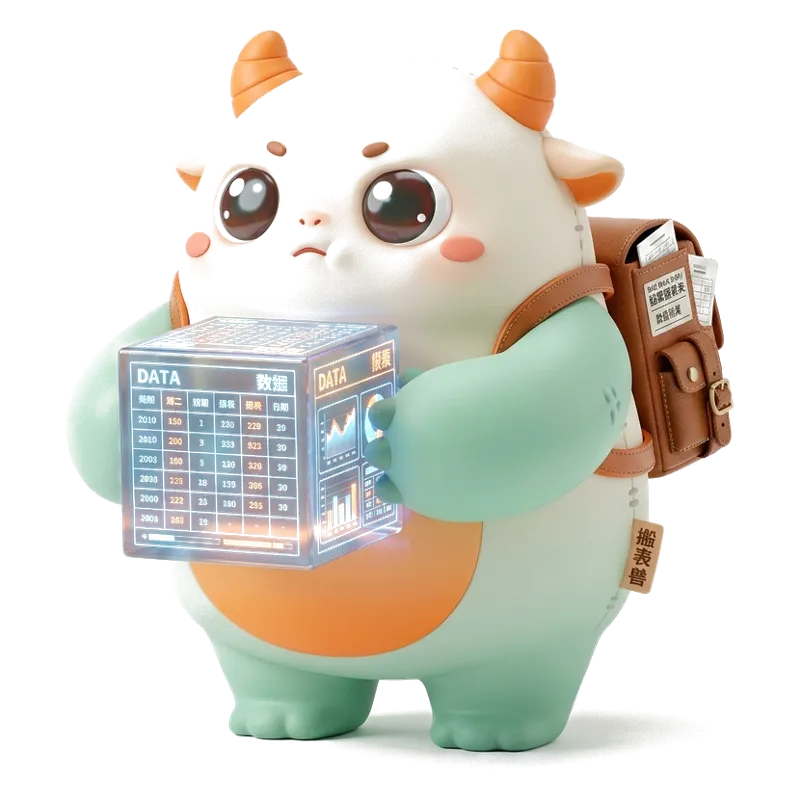
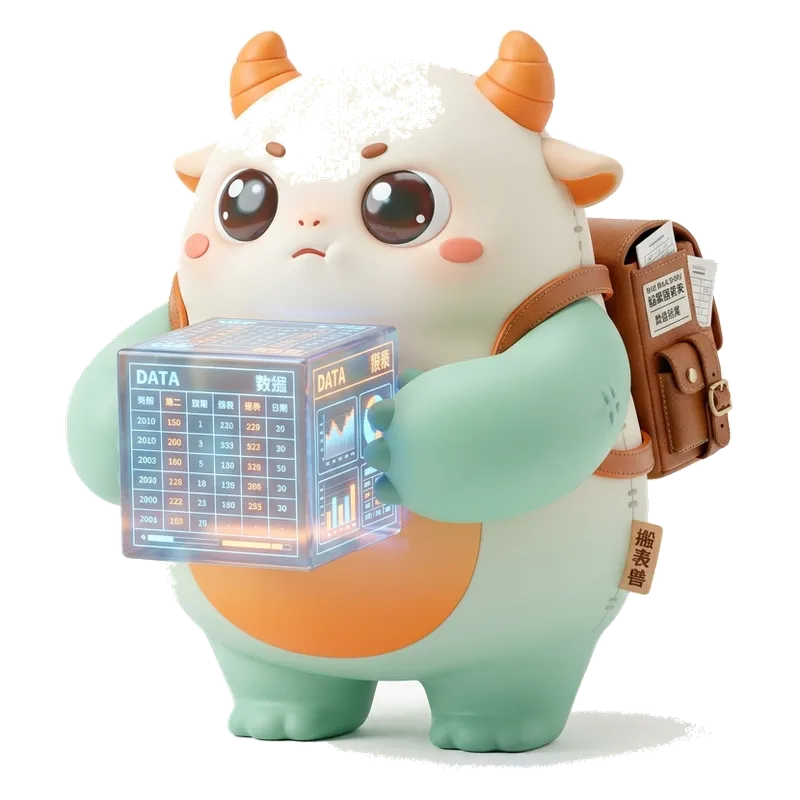
style: 修复角色WebP素材Alpha穿孔并增加不透底实体展示舱与展台

diff --git a/scripts/render_report.py b/scripts/render_report.py
@@ -148,9 +148,22 @@ a { color: var(--c-black); text-decoration: underline; }
   padding: 8px 14px; background: var(--c-black); color: var(--c-yellow);
   font: 700 13px/1.4 var(--font-mono);
 }
-.character-stage { position: relative; width: 100%; display: flex; flex-direction: column; align-items: center; }
-.character-figure { width: min(460px, 100%); height: auto; display: block; }
-.character-plinth { width: 62%; height: 26px; margin-top: -18px; background: var(--c-black); border-radius: 50%; }
+.character-stage {
+  position: relative; width: 100%; margin: 14px 0; padding: 22px 16px 18px;
+  background: var(--c-white); border: 3.5px solid var(--c-black);
+  border-radius: 16px; box-shadow: 6px 6px 0 var(--c-black);
+  display: flex; flex-direction: column; align-items: center; justify-content: center;
+  overflow: hidden;
+}
+.character-figure {
+  position: relative; z-index: 2; width: min(380px, 100%); height: auto; display: block;
+  filter: drop-shadow(0 10px 18px rgba(0,0,0,.15));
+}
+.character-plinth {
+  position: relative; z-index: 1; width: 68%; height: 22px; margin-top: -16px;
+  background: radial-gradient(ellipse at center, #2b2b2b 0%, var(--c-black) 100%);
+  border-radius: 50%; box-shadow: 0 4px 8px rgba(0,0,0,.35);
+}
 .stage-nameplate {
   align-self: stretch; margin-top: 18px; padding: 14px 18px; background: var(--c-white);
   border: 3px solid var(--c-black); font-size: 14px;
@@ -244,7 +257,9 @@ html.share-only .download-button { display: none; }
   .level-chip { font-size: 28px; }
   .character-title { font-size: 26px; }
   .snarky-banner { font-size: 19px; }
-  .character-figure { width: min(240px, 100%); }
+  .character-stage { padding: 14px 10px 12px; margin: 8px 0; border-radius: 12px; box-shadow: 4px 4px 0 var(--c-black); }
+  .character-figure { width: min(220px, 100%); }
+  .character-plinth { width: 64%; height: 16px; margin-top: -12px; }
   h2 { font-size: 22px; }
   details.task summary { align-items: flex-start; flex-direction: column; }
   .task-columns { grid-template-columns: 1fr; }
@@ -352,9 +367,25 @@ CARD_SCRIPT = r"""
     ctx.fillStyle = BLACK; ctx.fillText(levelText, 80, 533);
 
     if (image) {
-      ctx.drawImage(image, 560, 120, 440, 440);
+      // 角色展示区物理隔离：纯白实体潮玩展示舱（Solid Specimen Capsule）
+      roundedRect(546, 102, 474, 504, 18, BLACK, BLACK, 0);
+      roundedRect(540, 96, 474, 504, 18, WHITE, BLACK, 5);
+
+      // 舱内顶部工程标本条
+      ctx.fillStyle = "#F4F4F0";
+      ctx.fillRect(545, 101, 464, 36);
       ctx.fillStyle = BLACK;
-      ctx.beginPath(); ctx.ellipse(780, 578, 208, 30, 0, 0, Math.PI * 2); ctx.fill();
+      ctx.font = `700 15px ${mono}`;
+      ctx.fillText(`SPECIMEN POD // ${specimen} · ${roleCode}`, 562, 125);
+
+      // 实体手办展台底座（在脚底先行绘制，避免遮挡手办脚部）
+      ctx.fillStyle = BLACK;
+      ctx.beginPath(); ctx.ellipse(777, 546, 175, 24, 0, 0, Math.PI * 2); ctx.fill();
+      ctx.fillStyle = "#2B2B2B";
+      ctx.beginPath(); ctx.ellipse(777, 540, 145, 16, 0, 0, Math.PI * 2); ctx.fill();
+
+      // 居中绘制实心潮玩立像
+      ctx.drawImage(image, 557, 128, 440, 440);
     }
 
     // 角色名条（含定义句；影子兽时定义句即“证据不够，不下结论”）

diff --git a/docs/DESIGN_SYSTEM_B_POSTER.md b/docs/DESIGN_SYSTEM_B_POSTER.md
@@ -136,17 +136,121 @@
 
 ---
 
-## 七、素材技术参数与存储约定
+## 七、素材技术参数与实心抠图规范
 
-- **格式标准**：WebP 格式（带 Alpha 透明通道），质量参数 q80，无损色彩剪切；
+- **格式标准**：WebP 格式（带 Alpha 透明通道），质量参数 q80，无损高保真；
 - **画幅规格**：统一正方形 800 × 800 像素，主体比例占画布约 80%~85%，四周预留 8% 安全留白；
-- **体积指标**：单张文件大小在 **51KB ~ 118KB** 之间，严格优于 ≤150KB 的工程硬约束；
+- **实心防穿孔准则 (Anti-Punchthrough Algorithm)**：
+  - 严禁单纯使用色彩欧氏距离抠图（会导致白色肚皮、高光反光、全息数据框、长清单纸条等内部白色元素被抠穿）；
+  - 采用**“低饱和度无色判别（`np.ptp(RGB) < 14`）+ 外部 4 边界连通域单向 BFS 泛洪”**算法，确保手办身体内部 100% 实心（Alpha = 255），外部摄影棚背景 100% 纯透明（Alpha = 0）；
+- **体积指标**：13 张重新生成的实心 WebP 单张大小在 **45KB ~ 62KB** 之间（平均仅约 52KB），远低于 ≤150KB 的工程硬约束；
 - **存放路径**：
   - 设计小样目录：`visual_samples/characters/`
-  - Skill 正式静态素材目录：`ai-task-exposure-skill/assets/characters/`（Phase 2 工程落地时拷贝）
-- **合版总览图**：
-  - `visual_samples/characters_overview_grid.png`（2400×2400 高清大图）
-  - `visual_samples/characters_overview_grid.webp`（349KB 轻量级网络预览图）
+  - Skill 正式静态素材目录：`ai-task-exposure-skill/assets/characters/`
+
+---
+
+## 八、角色展示区底色物理隔离与展台规范 (Specimen Capsule System)
+
+为彻底解决欧八提出的“透明素材导致海报背景颜色透出”问题，同时坚决避免将透明素材粗暴压死为单一固定底色而丧失复用能力，确立**“实体展示舱（Solid Specimen Capsule）+ 双层手办展台（Pedestal Base）”**的物理隔离方案：
+
+### 8.1 视觉层级结构 (Layer Order)
+1. **底层海报背景**：桌面端/移动端 `.stage-block`（亮黄色 `--c-yellow: #EBFB3B`）或微信分享卡全局黄色底板；
+2. **实体展示仓背板 (Showcase Capsule)**：
+   - 纯白色实心底（`#FFFFFF`），彻底在物理上阻绝外部海报黄底；
+   - 粗黑边框：HTML 端 `3.5px solid #0D0D0D`，Canvas 端 5px 黑色边框；
+   - 瑞士粗野主义硬圆角：HTML 端 `border-radius: 16px`，Canvas 端 `radius: 18px`；
+   - 工业硬投影：HTML 端 `box-shadow: 6px 6px 0 var(--c-black)`，Canvas 端右下偏移硬黑投影；
+3. **顶部标本标签条 (Specimen Ticker)**：
+   - 仓内顶部嵌入浅灰（`#F4F4F0`）工程标签，单行显示 `SPECIMEN POD // SPECIMEN NO.XX · ROLE_CODE`，强化潮玩体检标本隐喻；
+4. **实体手办台阶底座 (Pedestal Base)**：
+   - 必须在手办脚底位置先行绘制（位于手办底层，严禁反客为主覆盖手办脚面）；
+   - 下层宽黑椭圆托盘（厚度 24px~26px），上层深灰微反光台阶（`#2B2B2B`，厚度 16px~18px）；
+5. **角色立像 (Solid Toy Specimen)**：
+   - 居中稳稳立于展台之上，带有细腻的景深投影（`filter: drop-shadow(0 10px 18px rgba(0,0,0,.15))`），手办实体感十足。
+
+### 8.2 Developer 落地代码规则参考
+
+#### A. HTML / CSS 规则 (桌面端与移动端)
+```css
+/* 实体展示仓（纯白实心隔绝黄底） */
+.character-stage {
+  position: relative;
+  width: 100%;
+  margin: 14px 0;
+  padding: 22px 16px 18px;
+  background: var(--c-white);
+  border: 3.5px solid var(--c-black);
+  border-radius: 16px;
+  box-shadow: 6px 6px 0 var(--c-black);
+  display: flex;
+  flex-direction: column;
+  align-items: center;
+  justify-content: center;
+  overflow: hidden;
+}
+
+/* 潮玩手办立像（层级 z-index: 2） */
+.character-figure {
+  position: relative;
+  z-index: 2;
+  width: min(380px, 100%);
+  height: auto;
+  display: block;
+  filter: drop-shadow(0 10px 18px rgba(0, 0, 0, 0.15));
+}
+
+/* 实体展台底座（层级 z-index: 1，位于手办背后） */
+.character-plinth {
+  position: relative;
+  z-index: 1;
+  width: 68%;
+  height: 22px;
+  margin-top: -16px;
+  background: radial-gradient(ellipse at center, #2b2b2b 0%, var(--c-black) 100%);
+  border-radius: 50%;
+  box-shadow: 0 4px 8px rgba(0, 0, 0, 0.35);
+}
+
+/* 移动端 390 自适应紧凑适配 */
+@media (max-width: 680px) {
+  .character-stage {
+    padding: 14px 10px 12px;
+    margin: 8px 0;
+    border-radius: 12px;
+    box-shadow: 4px 4px 0 var(--c-black);
+  }
+  .character-figure { width: min(220px, 100%); }
+  .character-plinth { width: 64%; height: 16px; margin-top: -12px; }
+}
+```
+
+#### B. Canvas 微信分享卡 (1080×1440) 绘制规则
+```javascript
+if (image) {
+  // 1. 实体展示仓右下硬投影 (x: 546, y: 102, w: 474, h: 504)
+  roundedRect(546, 102, 474, 504, 18, BLACK, BLACK, 0);
+
+  // 2. 纯白实心主体舱 (x: 540, y: 96, w: 474, h: 504, border: 5px)
+  roundedRect(540, 96, 474, 504, 18, WHITE, BLACK, 5);
+
+  // 3. 仓内顶部工程微标签条
+  ctx.fillStyle = "#F4F4F0";
+  ctx.fillRect(545, 101, 464, 36);
+  ctx.fillStyle = BLACK;
+  ctx.font = `700 15px ${mono}`;
+  ctx.fillText(`SPECIMEN POD // ${specimen} · ${roleCode}`, 562, 125);
+
+  // 4. 实体展台底座（脚底先行绘制：底层宽黑椭圆 + 上层灰台阶）
+  ctx.fillStyle = BLACK;
+  ctx.beginPath(); ctx.ellipse(777, 546, 175, 24, 0, 0, Math.PI * 2); ctx.fill();
+  ctx.fillStyle = "#2B2B2B";
+  ctx.beginPath(); ctx.ellipse(777, 540, 145, 16, 0, 0, Math.PI * 2); ctx.fill();
+
+  // 5. 居中绘制实心潮玩立像 (x: 557, y: 128, w: 440, h: 440)
+  ctx.drawImage(image, 557, 128, 440, 440);
+}
+```
 
 ---
 *本规范由视觉负责人（designer）制定，锁定 B 方向作为全量制作唯一视觉依据。*
